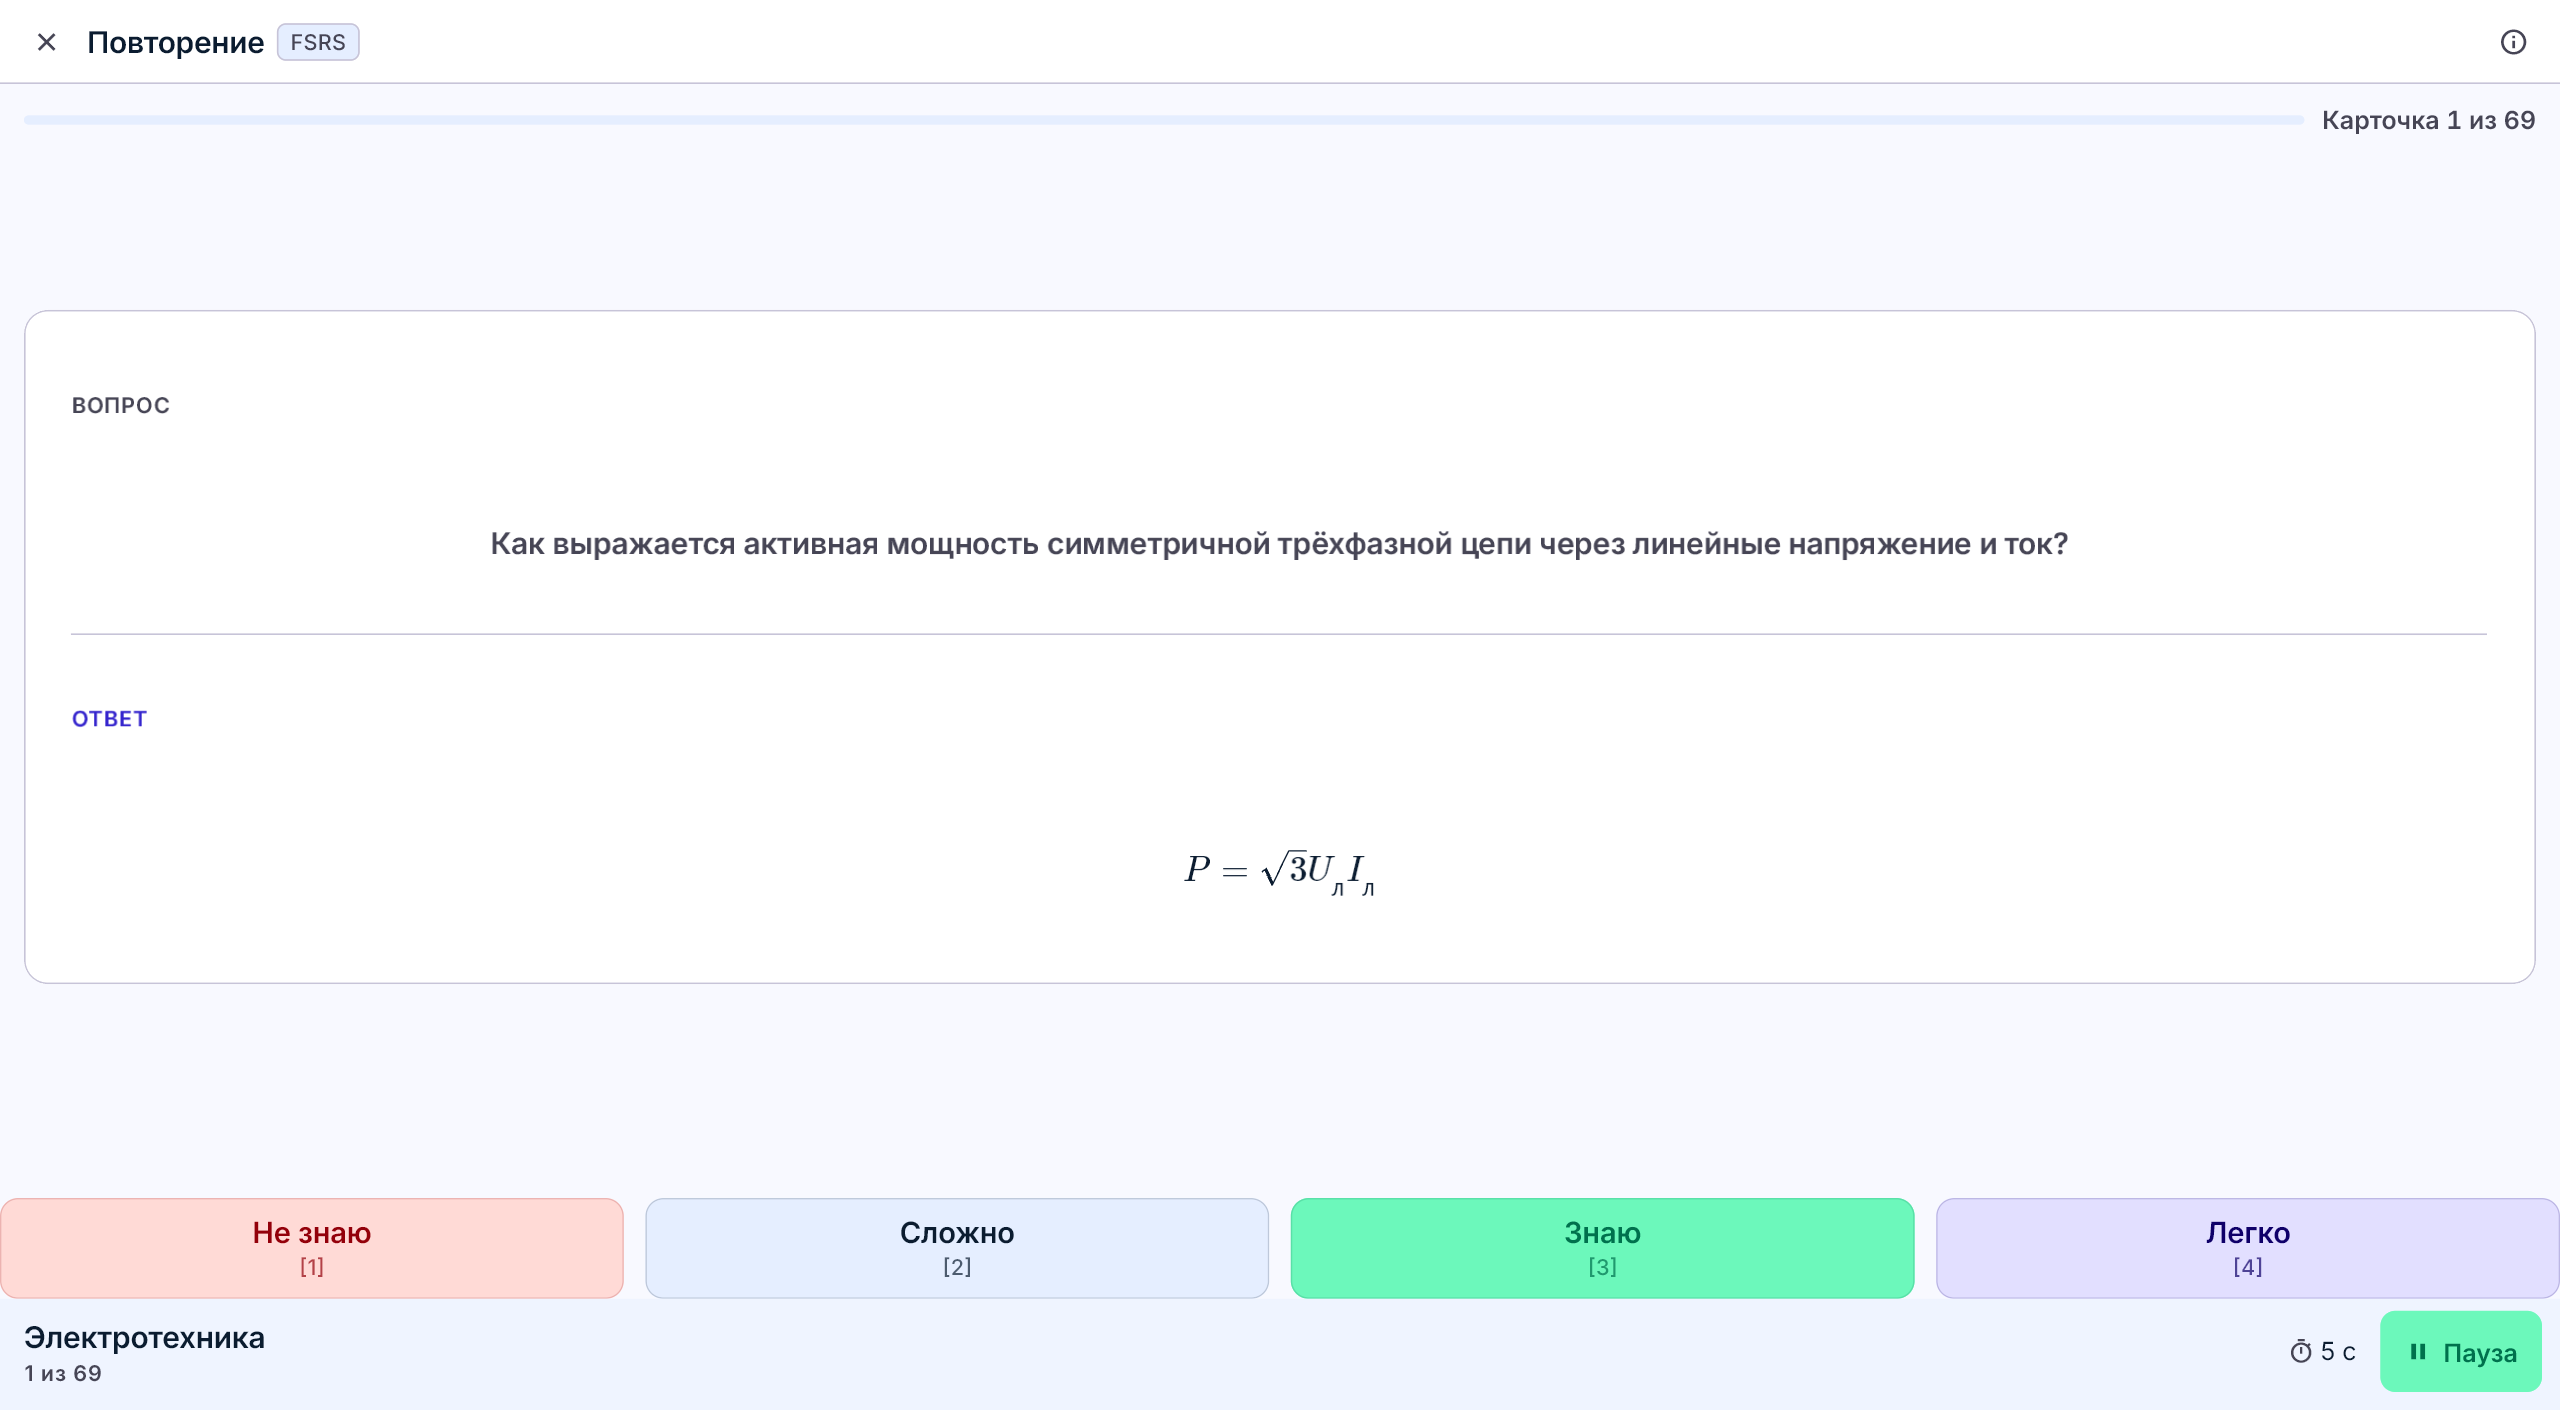
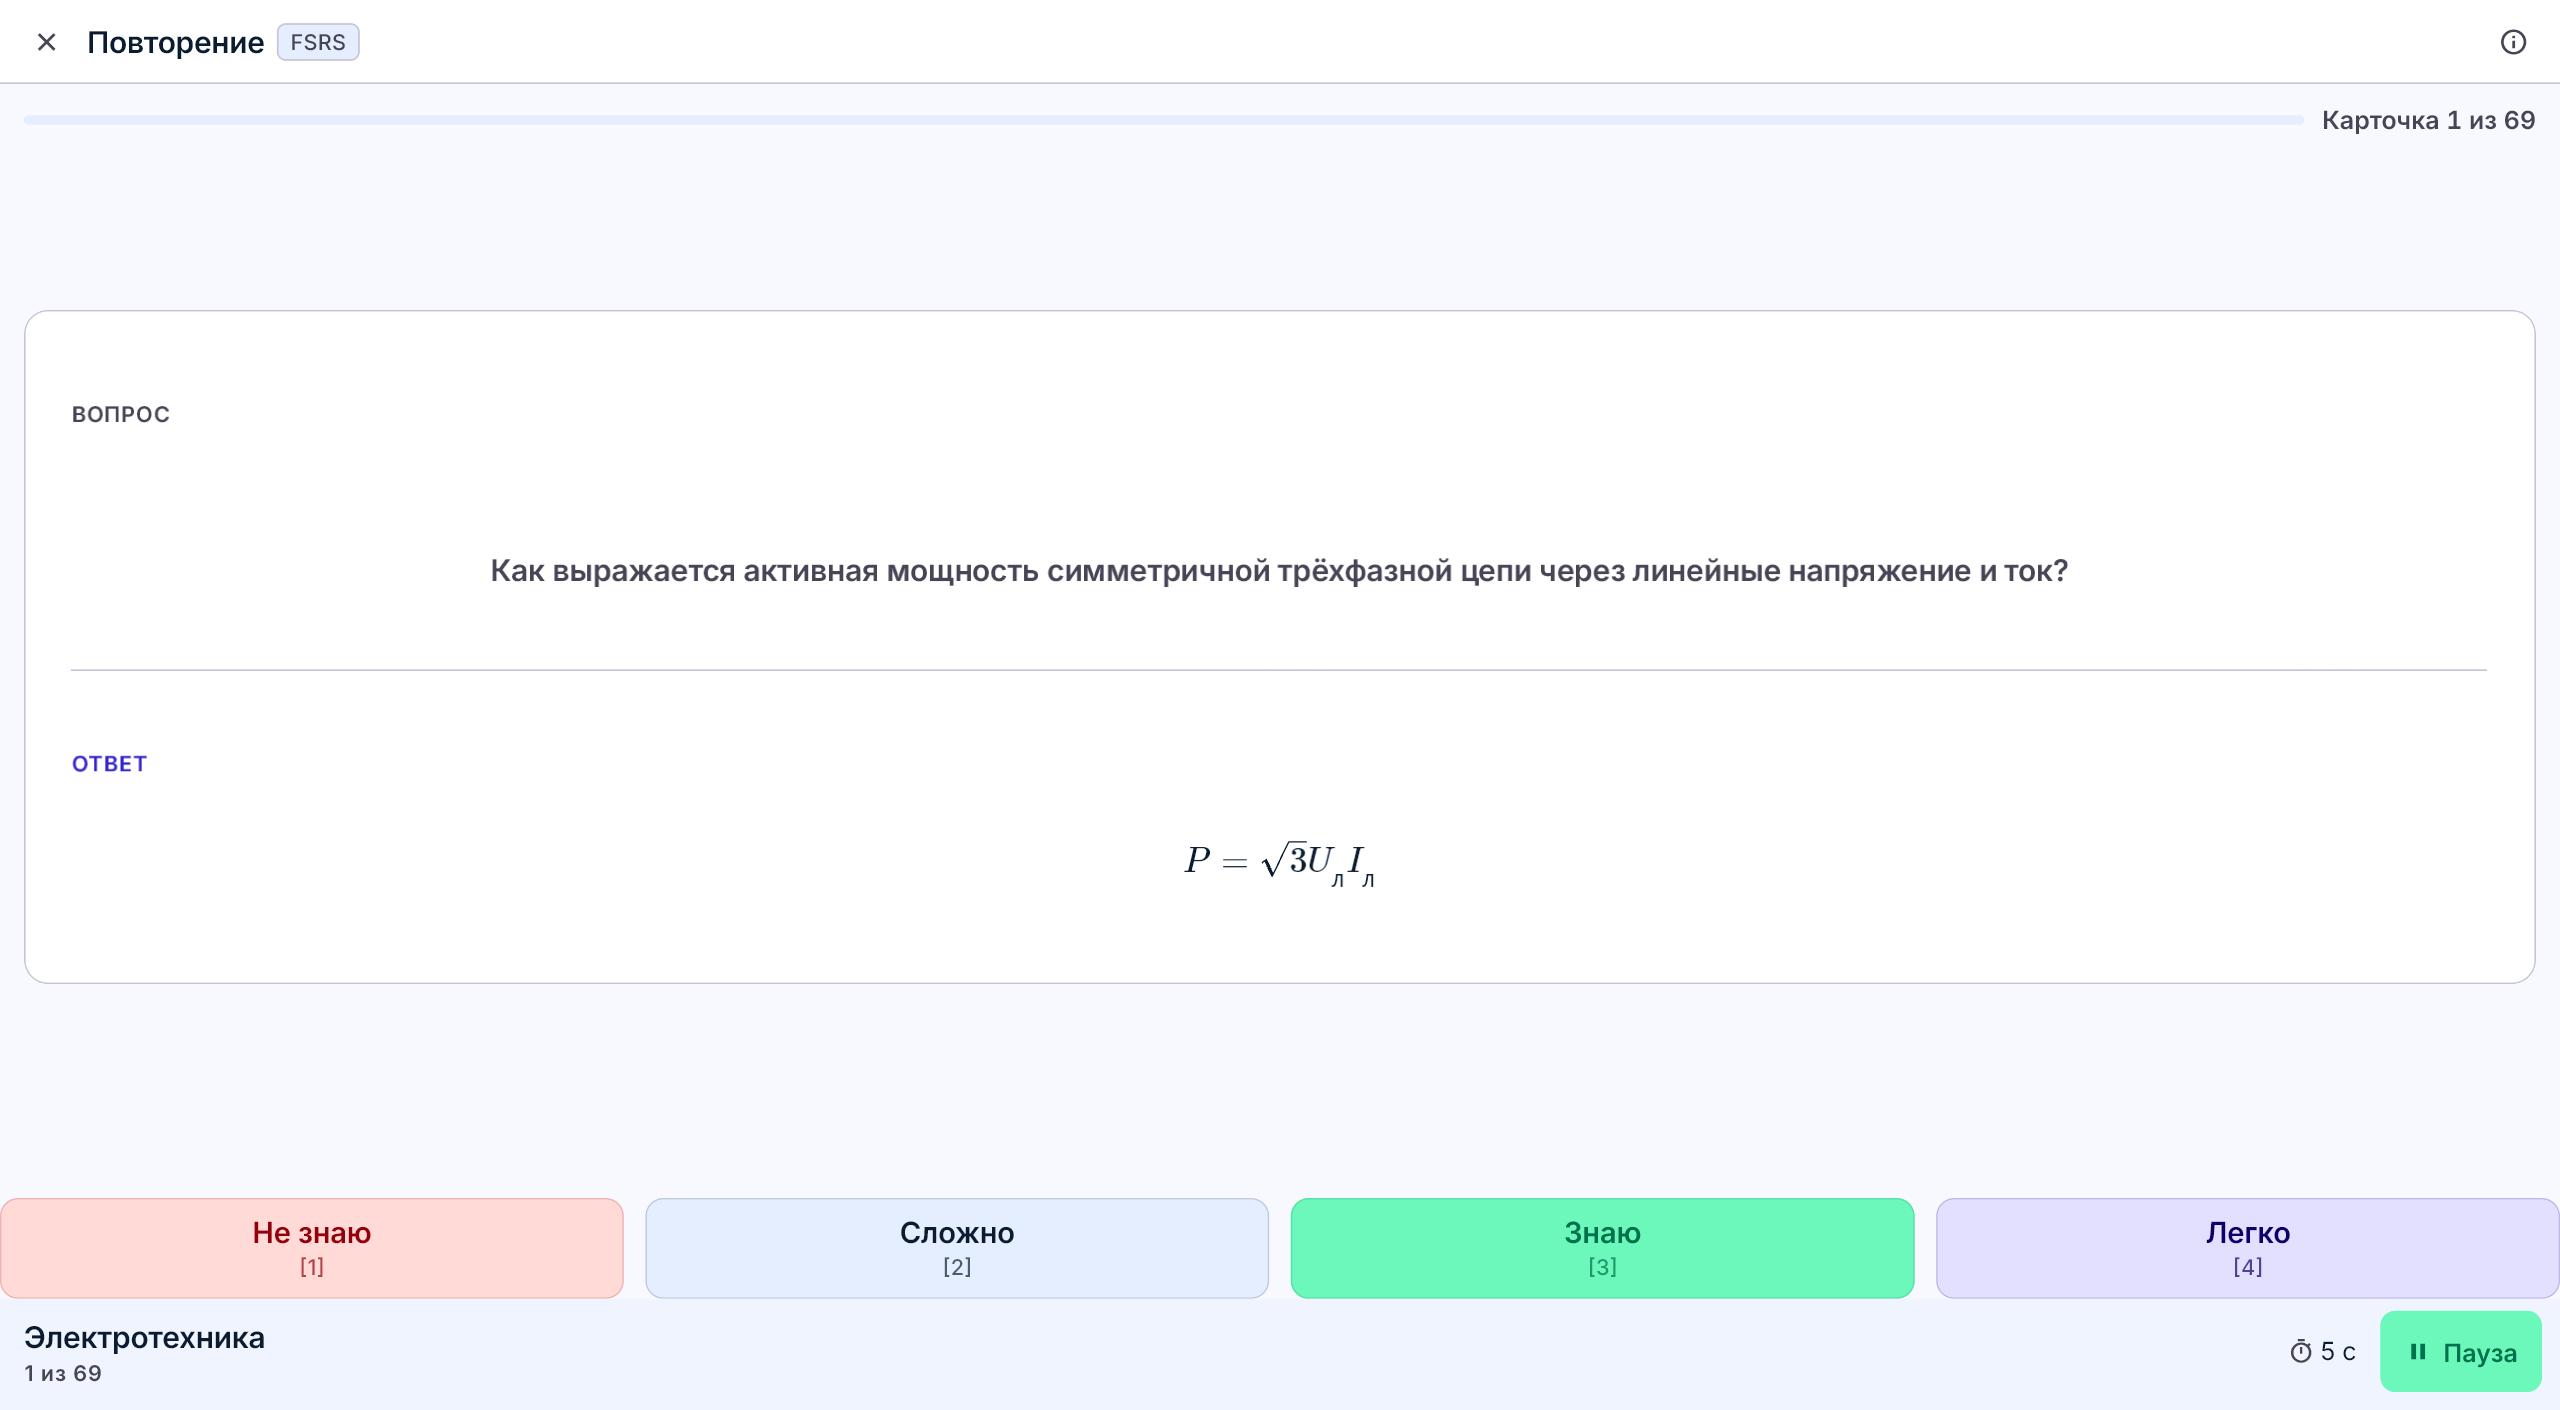
fix(feed): убрать невидимый SizedBox из spaceEvenly — полоса ленты 19,6 %
Найдено аудитом v11 (G8): SizedBox(height: 8) был отдельным невидимым
ребёнком Column(spaceEvenly) и склеивал два промежутка в одну сплошную полосу
32,6-33,5 % высоты на 5 из 6 живых карточек 2K. После удаления промежутки
распределяются равномерно: живой 2K — 19,6 % (вопрос) / 20,9 % (ответ) при
норме <=30 %.

diff --git a/lib/ui/review/feed_card_view.dart b/lib/ui/review/feed_card_view.dart
@@ -485,7 +485,10 @@ class _FlipFace extends StatelessWidget {
                               ),
                             ),
                           ),
-                          const SizedBox(height: AppSpacing.sm),
+                          // Аудит v11 (G8): отдельный SizedBox был невидимым
+                          // ребёнком spaceEvenly и склеивал два промежутка в
+                          // одну полосу 32,7 % высоты. Расстояние между
+                          // элементами задаёт сам spaceEvenly.
                           card == null
                               ? Text(
                                   showBack ? back : front,
